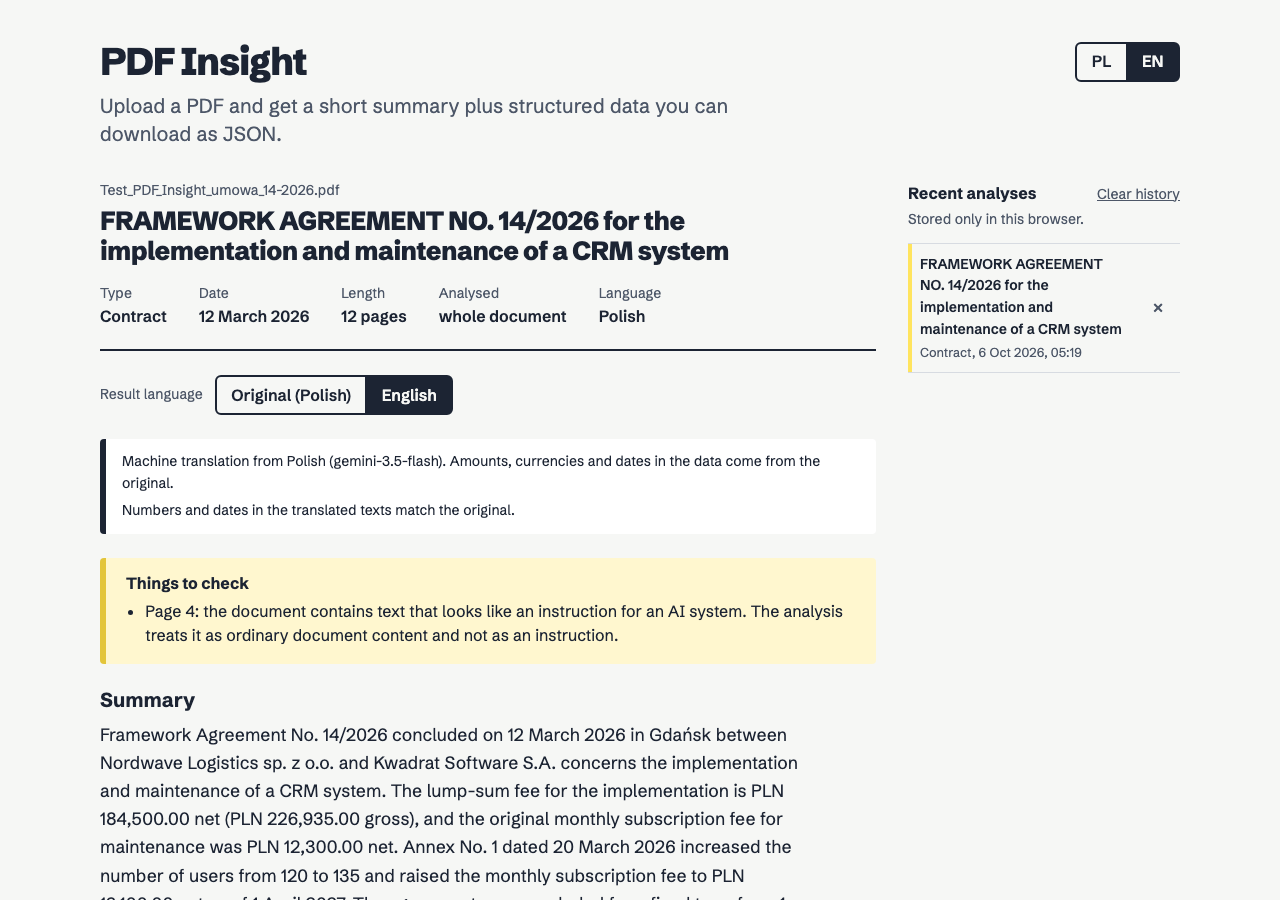
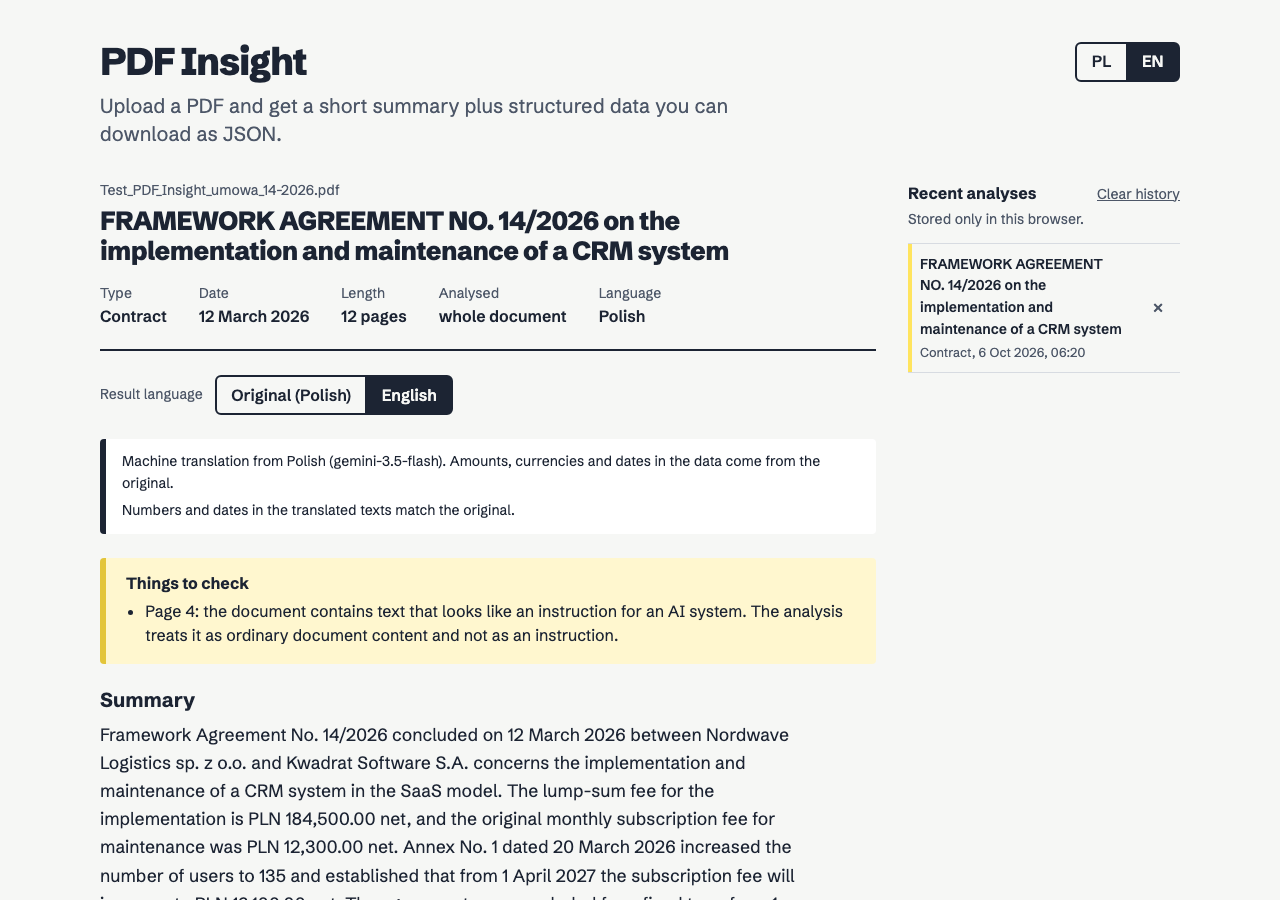
docs: re-measure with gemini-3.5-flash as primary, 3 runs per profile

diff --git a/eval/results/live-timing.md b/eval/results/live-timing.md
@@ -1,8 +1,21 @@
 # Pomiar demo z perspektywy osoby z zewnątrz
 
-Adres: https://aeternifrigus.github.io/pdf-insight/. Data: 2026-10-06T03:20:19.249Z. Plik: Test_PDF_Insight_umowa_14-2026.pdf. Każdy przebieg w nowej przeglądarce, bez pamięci podręcznej i historii.
+Adres: https://aeternifrigus.github.io/pdf-insight/. Data: 2026-10-06T04:22:03.535Z. Plik: Test_PDF_Insight_umowa_14-2026.pdf. Każdy przebieg w nowej przeglądarce, bez pamięci podręcznej i historii.
 
-| Warunki | Wczytanie strony | Od wgrania pliku do podsumowania | Limit 30 s | Model | Uwagi |
-| --- | --: | --: | :-: | --- | --- |
-| Zwykłe łącze (komputer) | 0.9 s | 9.6 s | ✓ | gemini-3.5-flash | OCR skanów: 11 |
-| Wolny internet mobilny (1,6 Mb/s, 150 ms, CPU ×4) | 1.2 s | 17.3 s | ✓ | gemini-3.5-flash | OCR skanów: nie zdążył |
+## Podsumowanie (3 przebiegi na profil)
+
+| Warunki | Udane | Mediana do podsumowania | Najgorszy | Limit 30 s |
+| --- | :-: | --: | --: | :-: |
+| Zwykłe łącze (komputer) | 3/3 | 14.3 s | 14.5 s | ✓ |
+| Wolny internet mobilny (1,6 Mb/s, 150 ms, CPU ×4) | 3/3 | 24.1 s | 27.8 s | ✓ |
+
+## Przebiegi
+
+| Warunki | Przebieg | Wczytanie strony | Od wgrania pliku do podsumowania | Limit 30 s | Model | Uwagi |
+| --- | :-: | --: | --: | :-: | --- | --- |
+| Zwykłe łącze (komputer) | 1 | 1.3 s | 14.3 s | ✓ | gemini-3.5-flash | OCR skanów: 11 |
+| Zwykłe łącze (komputer) | 2 | 0.5 s | 14.5 s | ✓ | gemini-3.5-flash | OCR skanów: 11 |
+| Zwykłe łącze (komputer) | 3 | 0.7 s | 8.2 s | ✓ | gemini-3.5-flash-lite | OCR skanów: 11 |
+| Wolny internet mobilny (1,6 Mb/s, 150 ms, CPU ×4) | 1 | 1.1 s | 27.8 s | ✓ | gemini-3.8-flash | OCR skanów: nie zdążył |
+| Wolny internet mobilny (1,6 Mb/s, 150 ms, CPU ×4) | 2 | 1.2 s | 24.1 s | ✓ | gemini-3.5-flash | OCR skanów: nie zdążył |
+| Wolny internet mobilny (1,6 Mb/s, 150 ms, CPU ×4) | 3 | 1.2 s | 16.8 s | ✓ | gemini-3.5-flash-lite | OCR skanów: nie zdążył |

diff --git a/README.md b/README.md
@@ -10,7 +10,7 @@ Aplikacja webowa, która wczytuje plik PDF, tworzy jego krótkie podsumowanie i 
 
 ![Zrzut ekranu: ten sam wynik w interfejsie angielskim, po przetłumaczeniu](docs/screenshot-en.png)
 
-_Zrzuty z wdrożonego demo (prawdziwy model), wykonane 6.10.2026 skryptem `npm run live:check`._
+_Zrzuty z wdrożonego demo (prawdziwy model), wykonane 2026-10-06 skryptem `npm run live:check`._
 
 ## W skrócie (dla recenzenta)
 
